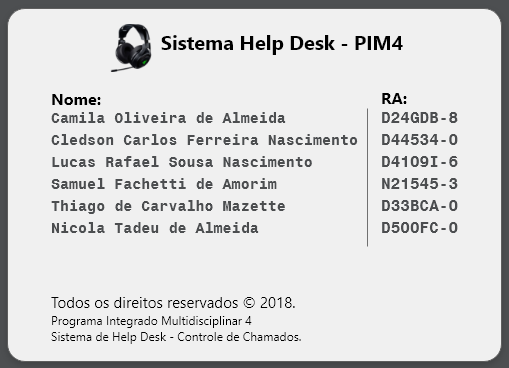
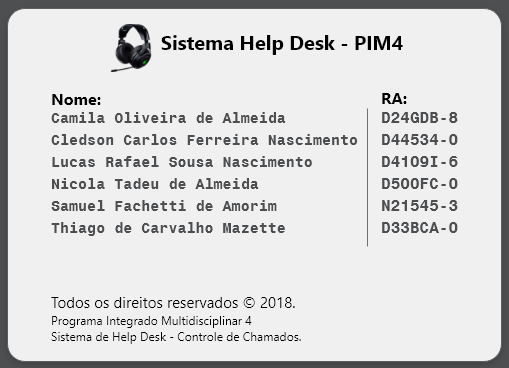
Fix Ordem Crescente dos Nomes em Frm_Sobre...

diff --git a/helpdesk2018/View/frmSobre.Designer.cs b/helpdesk2018/View/frmSobre.Designer.cs
@@ -45,7 +45,7 @@
             // 
             this.AutoScaleDimensions = new System.Drawing.SizeF(6F, 13F);
             this.AutoScaleMode = System.Windows.Forms.AutoScaleMode.Font;
-            this.BackgroundImage = global::helpdesk2018.Properties.Resources.Frm_Sobre_PIM1;
+            this.BackgroundImage = global::helpdesk2018.Properties.Resources.Frm_Sobre_PIM2;
             this.ClientSize = new System.Drawing.Size(509, 368);
             this.Controls.Add(this.btnOk);
             this.FormBorderStyle = System.Windows.Forms.FormBorderStyle.None;

diff --git a/helpdesk2018/Properties/Resources.Designer.cs b/helpdesk2018/Properties/Resources.Designer.cs
@@ -99,5 +99,15 @@ namespace helpdesk2018.Properties {
                 return ((System.Drawing.Bitmap)(obj));
             }
         }
+        
+        /// <summary>
+        ///   Looks up a localized resource of type System.Drawing.Bitmap.
+        /// </summary>
+        internal static System.Drawing.Bitmap Frm_Sobre_PIM2 {
+            get {
+                object obj = ResourceManager.GetObject("Frm_Sobre_PIM2", resourceCulture);
+                return ((System.Drawing.Bitmap)(obj));
+            }
+        }
     }
 }
